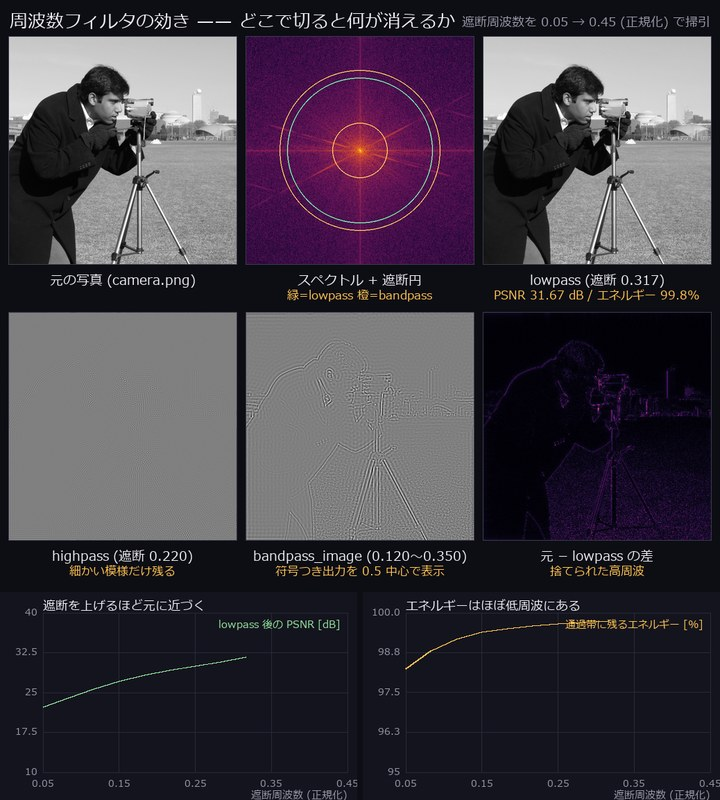
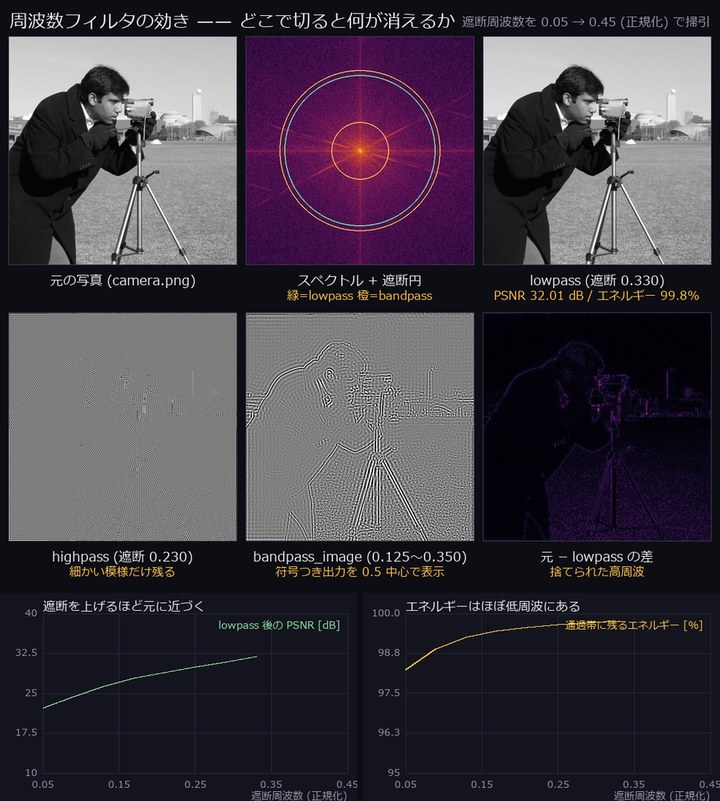
auto: gen_wing2d_gallery.py 編集前 (2026-09-02 02:03)

diff --git a/tools/gen_wing2d_gallery.py b/tools/gen_wing2d_gallery.py
@@ -136,14 +136,28 @@ def _save_gif(frames, name: str, fps: float = 6.0, hold_last: int = 0) -> dict:
     if hold_last > 0:
         arrs = arrs + [arrs[-1]] * hold_last
     path = os.path.join(MEDIA_DIR, name + ".gif")
-    used = 256
-    for colors in (192, 128, 96, 64, 48):
-        pil = [Image.fromarray(a, "RGB").convert(
-            "P", palette=Image.ADAPTIVE, colors=colors) for a in arrs]
-        pil[0].save(path, save_all=True, append_images=pil[1:],
-                    duration=int(round(1000.0 / fps)), loop=0, optimize=True)
-        used = colors
-        if os.path.getsize(path) <= GIF_MAX_BYTES:
+    used, scale = 256, 1.0
+    # 色数 -> 解像度 の順に落として 3 MB に収める(横幅は 900px を下回らせない)。
+    for scale in (1.0, 0.92, 0.86, 0.80):
+        cur = arrs
+        if scale < 1.0:
+            w = int(round(arrs[0].shape[1] * scale))
+            if w < 900:
+                break
+            h = int(round(arrs[0].shape[0] * scale))
+            cur = [_fit(a, w, h) for a in arrs]
+        done = False
+        for colors in (192, 128, 96, 64, 48):
+            pil = [Image.fromarray(a, "RGB").convert(
+                "P", palette=Image.ADAPTIVE, colors=colors) for a in cur]
+            pil[0].save(path, save_all=True, append_images=pil[1:],
+                        duration=int(round(1000.0 / fps)), loop=0, optimize=True)
+            used = colors
+            if os.path.getsize(path) <= GIF_MAX_BYTES:
+                done = True
+                break
+        if done:
+            arrs = cur
             break
     # 代表フレーム (掃引の中ほど) をサムネに
     rep = arrs[len(arrs) // 2]
@@ -534,10 +548,21 @@ def _signed_to_01(x) -> np.ndarray:
     return 0.5 + 0.5 * (a / m if m > 1e-12 else a)
 
 
+def _stretch(x, lo_pct=1.0, hi_pct=99.0) -> np.ndarray:
+    """パーセンタイルでコントラストを伸ばす **表示専用** の写像.
+
+    highpass の出力は平均 0.5・標準偏差 0.04 程度に収まるため、そのまま貼ると
+    一様な灰色にしか見えない。処理の結果を変えるものではなく、見せるための拡大。
+    """
+    a = np.asarray(x, np.float64)
+    lo, hi = np.percentile(a, lo_pct), np.percentile(a, hi_pct)
+    return np.clip((a - lo) / (hi - lo), 0, 1) if hi > lo else np.zeros_like(a)
+
+
 def subject_freq_sweep(log=print) -> dict:
     """ローパス/ハイパス/バンドパスの遮断周波数を掃引し、残る情報量を実測."""
     src = _load_gray("camera.png")
-    n = 13
+    n = 11
     A = np.linspace(0.0, 1.0, n)
     lo_cut = 0.05 + 0.40 * A                        # lowpass の遮断 (正規化周波数)
     hi_cut = 0.02 + 0.30 * A                        # highpass の遮断
@@ -560,7 +585,7 @@ def subject_freq_sweep(log=print) -> dict:
     for i, a in enumerate(A):
         grid = _panel_grid(
             [src, _spectrum_rgb(src, cutoff=lo_cut[i], band=(bp_lo[i], bp_hi)),
-             lows[i], highs[i], _signed_to_01(bands[i]),
+             lows[i], _stretch(highs[i]), _stretch(_signed_to_01(bands[i])),
              _cmap(np.abs(src - lows[i]), "magma", vmin=0.0, vmax=0.35)],
             ["元の写真 (camera.png)",
              "スペクトル + 遮断円\n緑=lowpass 橙=bandpass",

diff --git a/tools/gen_wingstudio_gallery.py b/tools/gen_wingstudio_gallery.py
@@ -59,7 +59,7 @@ MEDIA = os.path.join(ASSETS, "media")
 THUMBS = os.path.join(ASSETS, "thumbs")
 EXHIBITS_DIR = os.path.join(_ROOT, "docs", "articles", "exhibits")
 META_PATH = os.path.join(ASSETS, "_wingstudio_meta.json")
-CAPTION_PATH = os.path.join(EXHIBITS, "wingstudio.md")
+CAPTION_PATH = os.path.join(EXHIBITS_DIR, "wingstudio.md")
 RAW_BASE = ("https://raw.githubusercontent.com/furuse-kazufumi/fullseye/"
             "master/docs/articles/assets/")
 

diff --git a/docs/articles/exhibits/wingstudio.md b/docs/articles/exhibits/wingstudio.md
@@ -1,0 +1,29 @@
+# Studio 画面 / 3D 表示ウィング —— 展示キャプション原稿
+
+生成元: `tools/gen_wingstudio_gallery.py`(再実行で全点を再生成)。
+Studio 画面はすべて `studio.build_window()` が組み立てた**実 UI** の `widget.grab()`(オフスクリーン)で、モックアップはありません。
+3D 展示は fullseye の op と numpy 合成だけで描いています(matplotlib 不使用、文字のみ Pillow)。**数字はすべて実測値**です。
+
+**このファイルは納品原稿です。記事 md への転記は手動で行ってください**(記事本体は意図的に編集していません)。
+
+---
+
+## CT を回す —— 面と粒、同じ角度で
+
+![CT を回す —— 面と粒、同じ角度で](https://raw.githubusercontent.com/furuse-kazufumi/fullseye/master/docs/articles/assets/media/wingstudio_volume_turntable.gif)
+
+*↑ **CT を回す —— 面と粒、同じ角度で** —— 同梱の骨格 CT (20×97×28 voxel)を等値面 (mean+std = 0.5108) で三角形 9,710 枚 / 頂点 4,866 のメッシュにしたものと、同じ閾値の境界シェル 2,759 voxel を、**同じ yaw・同じ仰角で並べて回して**います。左は面、右は粒。同じ形が同じ向きに回ることが、軸を取り違えていない何よりの証拠になります(36 フレーム)。 使用 op / 機能: `marching_cubes`, `phong_shade`, `vol_boundary`, `render_points_frame`。*
+
+<sub>`wingstudio_volume_turntable.gif` — 36 フレーム / 12 fps / 996×640 px / 1.05 MB / SHA-256 `b6386d706b8b91e2`</sub>
+
+---
+
+## z スライスを 1 枚ずつ送る
+
+![z スライスを 1 枚ずつ送る](https://raw.githubusercontent.com/furuse-kazufumi/fullseye/master/docs/articles/assets/media/wingstudio_zslices.gif)
+
+*↑ **z スライスを 1 枚ずつ送る** —— 同じ CT を z = 0 から 19 まで 1 枚ずつ送ります(全 20 フレーム、下のバーが現在位置)。右は全 z を潰した MIP。左の 1 枚には毎フレーム実測した骨占有率・最小/最大/平均を出しているので、**端の 1 枚が欠けている/ 重複している**といった off-by-one はここで必ず露見します。拡大は最近傍 ×5(補間しない —— 画素の粗さ自体が情報)。 使用 op / 機能: `vol_mip`, `apply_cmap`, 最近傍整数拡大。*
+
+<sub>`wingstudio_zslices.gif` — 20 フレーム / 5 fps / 612×633 px / 0.71 MB / SHA-256 `46eddbd8fd732f16`</sub>
+
+---
